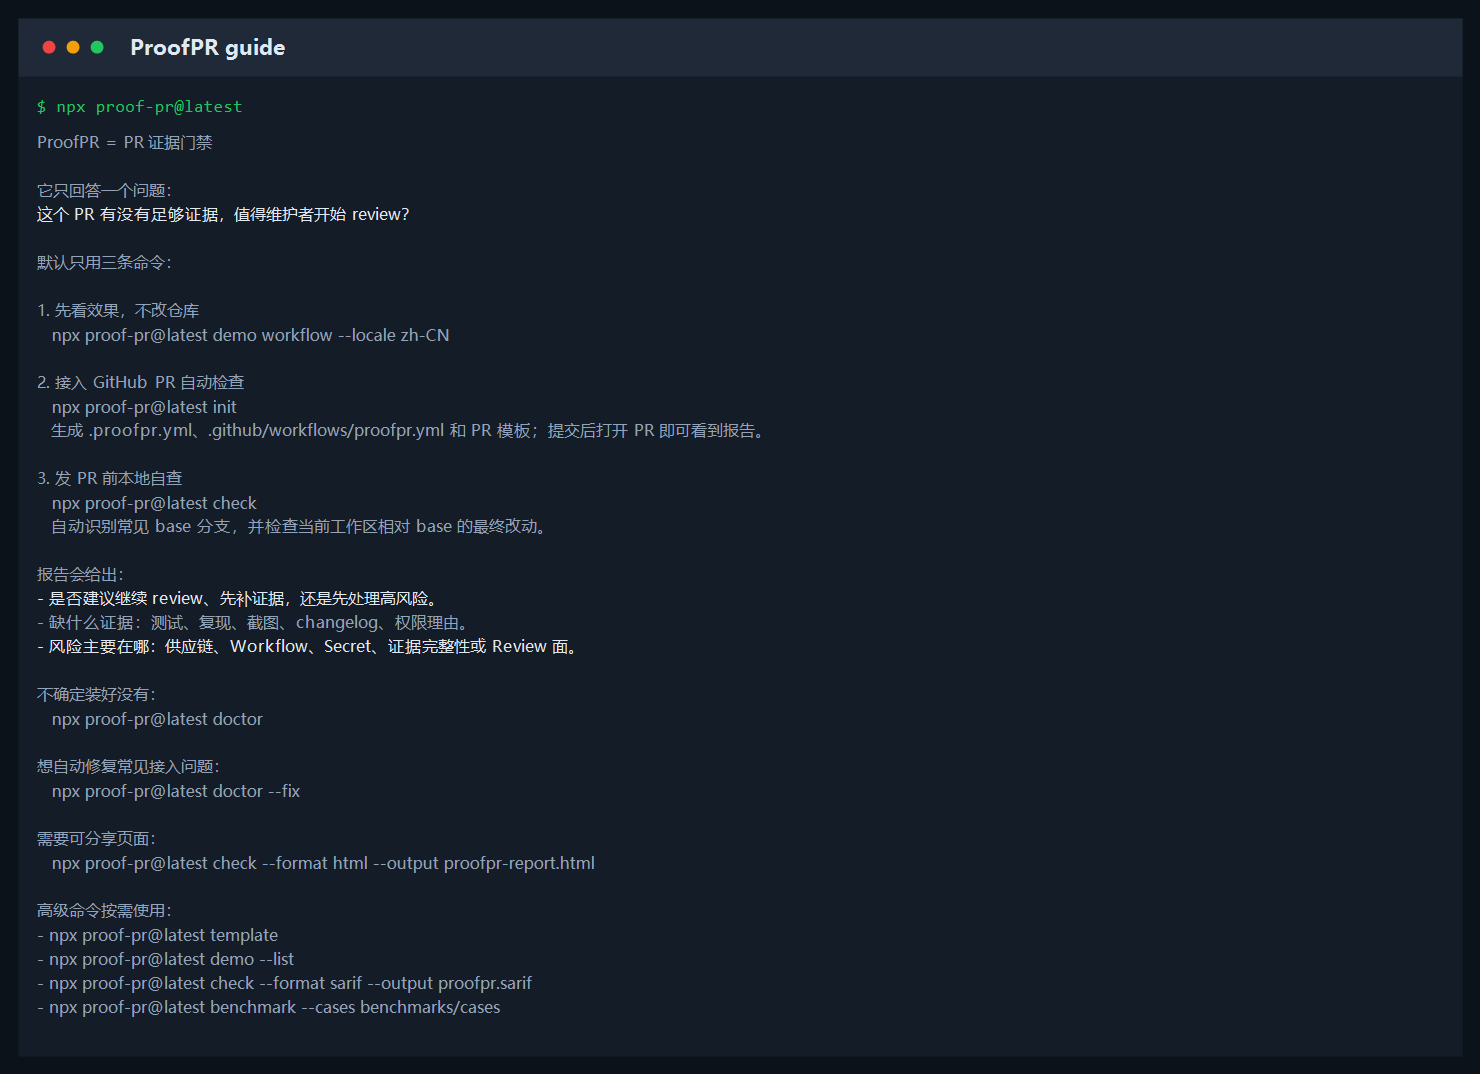
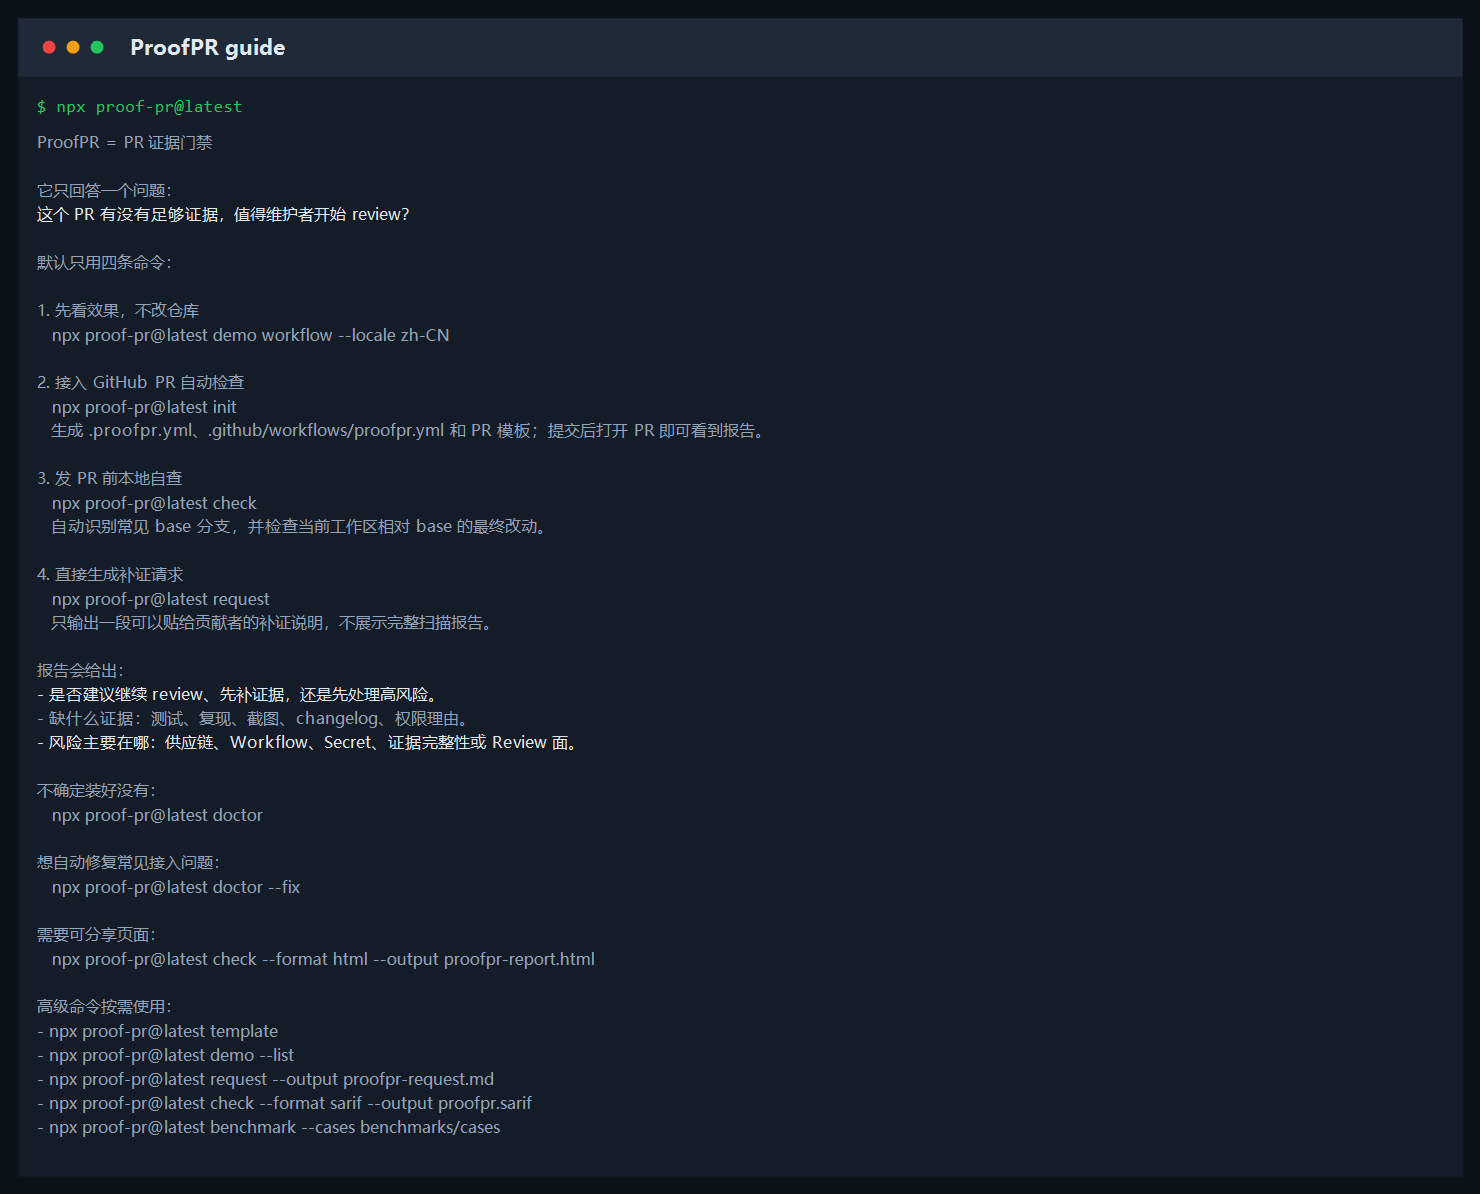
feat: add contributor evidence request

Changed region(s): [[0.0, 0.0307, 0.5284, 0.7989], [0.0311, 0.8296, 0.373, 0.9525]]

diff --git a/packages/cli/src/index.ts b/packages/cli/src/index.ts
@@ -9,6 +9,7 @@ import {
   loadConfig,
   parseLocale,
   parsePreset,
+  renderContributorRequest,
   renderHtmlReport,
   renderMarkdownReport,
   renderSarifReport,
@@ -22,7 +23,7 @@ import {
 } from "@proof-pr/core";
 
 const execFileAsync = promisify(execFile);
-const CLI_VERSION = "0.1.24";
+const CLI_VERSION = "0.1.25";
 
 type OutputFormat = "json" | "markdown" | "sarif" | "html";
 type FailLevel = RiskLevel | "never";
@@ -50,6 +51,14 @@ interface CheckCommandOptions {
   output?: string;
   locale?: ReportLocale;
   failOn: FailLevel;
+}
+
+interface RequestCommandOptions {
+  base?: string;
+  head: string;
+  config: string;
+  output?: string;
+  locale?: ReportLocale;
 }
 
 interface InitCommandOptions {
@@ -412,6 +421,30 @@ program
   });
 
 program
+  .command("request")
+  .description("Print a contributor-ready evidence request for the current branch.")
+  .option("--base <ref>", "Base git ref. Defaults to origin/main, origin/master, main, or master.")
+  .option("--head <ref>", "Head git ref used with --base.", "HEAD")
+  .option("--config <path>", "Path to .proofpr.yml.", ".proofpr.yml")
+  .option("--output <path>", "Write the request to a file instead of stdout.")
+  .option("--locale <locale>", "Report language: en or zh-CN.", "zh-CN")
+  .action(async (options: RequestCommandOptions) => {
+    const base = options.base ?? (await resolveDefaultBaseRef());
+    const diffText = await readCheckDiff(base, options.head);
+    const config = await loadConfig(options.config);
+    const result = scanDiff(diffText, { config });
+    const locale = parseLocale(options.locale, config.locale);
+    const output = renderContributorRequest(result, locale);
+
+    if (options.output) {
+      await writeOutput(options.output, `${output}\n`);
+      process.stdout.write(`ProofPR contributor request written to ${options.output}\n`);
+    } else {
+      process.stdout.write(`${output}\n`);
+    }
+  });
+
+program
   .command("scan", { isDefault: true })
   .description("Scan a git diff and print a ProofPR report.")
   .option("--base <ref>", "Base git ref. When provided, ProofPR scans base...head.")
@@ -551,7 +584,7 @@ function renderGuide(): string {
 它只回答一个问题：
 这个 PR 有没有足够证据，值得维护者开始 review？
 
-默认只用三条命令：
+默认只用四条命令：
 
 1. 先看效果，不改仓库
    npx proof-pr@latest demo workflow --locale zh-CN
@@ -563,6 +596,10 @@ function renderGuide(): string {
 3. 发 PR 前本地自查
    npx proof-pr@latest check
    自动识别常见 base 分支，并检查当前工作区相对 base 的最终改动。
+
+4. 直接生成补证请求
+   npx proof-pr@latest request
+   只输出一段可以贴给贡献者的补证说明，不展示完整扫描报告。
 
 报告会给出：
 - 是否建议继续 review、先补证据，还是先处理高风险。
@@ -581,6 +618,7 @@ function renderGuide(): string {
 高级命令按需使用：
 - npx proof-pr@latest template
 - npx proof-pr@latest demo --list
+- npx proof-pr@latest request --output proofpr-request.md
 - npx proof-pr@latest check --format sarif --output proofpr.sarif
 - npx proof-pr@latest benchmark --cases benchmarks/cases
 `;

diff --git a/packages/core/src/scan.test.ts b/packages/core/src/scan.test.ts
@@ -1,6 +1,6 @@
 import { describe, expect, it } from "vitest";
 import { parseConfig } from "./config.js";
-import { renderHtmlReport, renderMarkdownReport, renderSarifReport } from "./reporters.js";
+import { renderContributorRequest, renderHtmlReport, renderMarkdownReport, renderSarifReport } from "./reporters.js";
 import { scanDiff } from "./scan.js";
 
 describe("scanDiff", () => {
@@ -609,6 +609,23 @@ index 0000000..1111111 100644
     expect(report).toContain("依赖清单变更但缺少 lockfile");
     expect(report).toContain("| 供应链 |");
     expect(report).not.toContain("Dependency uses a non-registry source");
+  });
+
+  it("renders a contributor-ready evidence request", () => {
+    const result = scanDiff(`diff --git a/src/auth.ts b/src/auth.ts
+index 0000000..1111111 100644
+--- a/src/auth.ts
++++ b/src/auth.ts
+@@ -1 +1,2 @@
+ export function auth() {}
++export function logout() {}
+`);
+    const request = renderContributorRequest(result, "zh-CN");
+
+    expect(request).toContain("请在这个 PR 描述中补充以下内容");
+    expect(request).toContain("## 验证方式");
+    expect(request).toContain("## ProofPR 需要处理的点");
+    expect(request).toContain("补充测试或手动验证证据");
   });
 
   it("renders a standalone HTML visual report", () => {

diff --git a/packages/core/src/index.ts b/packages/core/src/index.ts
@@ -9,7 +9,13 @@ export {
 } from "./config.js";
 export { parseUnifiedDiff } from "./diff.js";
 export { analyzeEvidence } from "./evidence.js";
-export { renderHtmlReport, renderMarkdownReport, renderSarifReport, getReportMarker } from "./reporters.js";
+export {
+  renderContributorRequest,
+  renderHtmlReport,
+  renderMarkdownReport,
+  renderSarifReport,
+  getReportMarker
+} from "./reporters.js";
 export { scanDiff } from "./scan.js";
 export type {
   ChangeLine,

diff --git a/packages/core/src/reporters.ts b/packages/core/src/reporters.ts
@@ -707,6 +707,10 @@ export function renderHtmlReport(result: ScanResult, locale: ReportLocale = "en"
 `;
 }
 
+export function renderContributorRequest(result: ScanResult, locale: ReportLocale = "en"): string {
+  return renderContributorFixPrompt(result, locale);
+}
+
 export function getReportMarker(): string {
   return REPORT_MARKER;
 }

diff --git a/packages/github-action/action-dist/index.js b/packages/github-action/action-dist/index.js
@@ -51341,6 +51341,9 @@ function renderHtmlReport(result, locale = "en") {
 </html>
 `;
 }
+function renderContributorRequest(result, locale = "en") {
+    return renderContributorFixPrompt(result, locale);
+}
 function getReportMarker() {
     return REPORT_MARKER;
 }

diff --git a/docs/commands.md b/docs/commands.md
@@ -23,6 +23,7 @@ npx proof-pr@latest guide
 | 先看效果，不改仓库 | `npx proof-pr@latest demo workflow --locale zh-CN` | 当前终端 |
 | 接入 GitHub PR 自动检查 | `npx proof-pr@latest init` | PR 评论、Actions summary、Checks、HTML artifact |
 | 发 PR 前本地自查 | `npx proof-pr@latest check` | 当前终端 |
+| 生成贡献者补证请求 | `npx proof-pr@latest request` | 当前终端 |
 
 ## 辅助命令
 
@@ -31,6 +32,7 @@ npx proof-pr@latest guide
 | 不确定是否装好 | `npx proof-pr@latest doctor` | 当前终端 |
 | 自动修复常见接入问题 | `npx proof-pr@latest doctor --fix` | 当前终端和接入文件 |
 | 已接入仓库但缺少 PR 模板 | `npx proof-pr@latest template` | `.github/pull_request_template.md` |
+| 把补证请求写入文件 | `npx proof-pr@latest request --output proofpr-request.md` | `proofpr-request.md` |
 | 想把报告保存成页面 | `npx proof-pr@latest check --format html --output proofpr-report.html` | `proofpr-report.html` |
 | 想接入 GitHub Code Scanning | `npx proof-pr@latest check --format sarif --output proofpr.sarif` | `proofpr.sarif` / Code Scanning |
 | 查看所有内置案例 | `npx proof-pr@latest demo --list` | 当前终端 |
@@ -115,7 +117,7 @@ npx proof-pr@latest doctor
 - `.github/workflows/proofpr.yml` 是否存在。
 - `.github/pull_request_template.md` 是否存在，以及是否提示验证、复现、截图或权限理由。
 - workflow 是否监听 `pull_request`。
-- workflow 是否使用当前推荐的 `linsk27/proof-pr@v0.1.24`。
+- workflow 是否使用当前推荐的 `linsk27/proof-pr@v0.1.25`。
 - 是否具备 `pull-requests: write` 和 `contents: read` 权限。
 - 是否启用了 `html-output` 和 `actions/upload-artifact`，方便下载 HTML 可视化报告。
 - 当前目录是否在 Git 仓库里，以及自动识别出的 base...HEAD diff 是否可读。
@@ -159,7 +161,23 @@ npx proof-pr@latest check --format html --output proofpr-report.html
 - 一键复制“补证清单”，发给贡献者补 PR 描述。
 - 查看“风险雷达”，先判断风险主要来自证据、供应链、Workflow、Secret 还是 Review 面。
 
-## 6. 生成 SARIF
+## 6. 只生成贡献者补证请求
+
+执行：
+
+```bash
+npx proof-pr@latest request
+```
+
+这个命令和 `check` 使用同一套默认 diff 逻辑，但只输出一段可以直接贴给贡献者的补证说明。适合维护者不想转发完整报告，只想让贡献者补充测试、复现、截图、依赖或权限理由时使用。
+
+写入文件：
+
+```bash
+npx proof-pr@latest request --output proofpr-request.md
+```
+
+## 7. 生成 SARIF
 
 执行：
 
@@ -169,7 +187,7 @@ npx proof-pr@latest check --format sarif --output proofpr.sarif
 
 SARIF 主要给 GitHub Code Scanning 或其他安全平台读取。完整接入方式见 [SARIF / Code Scanning](sarif-code-scanning.md)。
 
-## 7. 跑内置风险案例
+## 8. 跑内置风险案例
 
 执行：
 
@@ -179,7 +197,7 @@ npx proof-pr@latest demo workflow --locale zh-CN
 
 这个命令不需要修改你的项目，也不需要 examples 文件，适合快速理解 ProofPR 会如何判断 workflow、供应链依赖、secret、测试证据这些风险。依赖案例会展示大版本升级、非注册表来源、未固定版本和 lockfile 提示。
 
-## 8. 跑 benchmark
+## 9. 跑 benchmark
 
 执行：
 
@@ -189,7 +207,7 @@ npx proof-pr@latest benchmark --cases benchmarks/cases
 
 benchmark 用来验证规则样本是否仍按预期命中。普通使用者不必每天跑它；维护 ProofPR 规则、准备发版或怀疑规则退化时再跑。
 
-## 9. 调整审查强度
+## 10. 调整审查强度
 
 打开 `.proofpr.yml`，修改 `preset`：
 

diff --git a/docs/release.md b/docs/release.md
@@ -1,6 +1,6 @@
 # 发布流程
 
-当前最新公开版本是 `0.1.24`。
+当前最新公开版本是 `0.1.25`。
 
 ## 发布前检查
 
@@ -52,8 +52,8 @@ npm 官方要求 trusted publishing 使用 npm 11.5.1+ 和 Node 22.14+；`npm tr
 确认 `pnpm release:check` 通过后：
 
 ```bash
-git tag v0.1.24
-git push origin v0.1.24
+git tag v0.1.25
+git push origin v0.1.25
 ```
 
 发布完成后需要检查：
@@ -66,9 +66,18 @@ npx proof-pr@latest --version
 当前验证结果：
 
 ```txt
-npm view proof-pr version -> 0.1.24
-npx proof-pr@latest --version -> 0.1.24
+npm view proof-pr version -> 0.1.25
+npx proof-pr@latest --version -> 0.1.25
 ```
+
+## `v0.1.25` 发布状态
+
+`v0.1.25` 是补证请求增强版，重点包括：
+
+- 新增 `proof-pr request`，只输出可以直接贴给贡献者的补证请求，不展示完整扫描报告。
+- 新增 `proof-pr request --output proofpr-request.md`，方便维护者把补证请求保存为文件或复制到 PR 评论。
+- Core 新增 `renderContributorRequest`，让后续 GitHub Action 或外部集成可以复用同一段补证请求逻辑。
+- README、npm 包 README、命令速查和快速开始同步说明 request 路径。
 
 ## `v0.1.24` 发布状态
 
@@ -169,7 +178,7 @@ npx proof-pr@latest --version -> 0.1.24
 
 ## 版本说明
 
-`0.1.8` 已经发布到 npm，但 CLI `--version` 仍显示旧版本。`0.1.24` 继承了后续修复，并且是当前推荐使用版本。
+`0.1.8` 已经发布到 npm，但 CLI `--version` 仍显示旧版本。`0.1.25` 继承了后续修复，并且是当前推荐使用版本。
 
 ## 发布后动作
 

diff --git a/docs/getting-started.md b/docs/getting-started.md
@@ -44,7 +44,7 @@ npx proof-pr@latest doctor
 
 ![ProofPR doctor 体检输出](screenshots/proofpr-doctor-output.png)
 
-如果你不确定下一步该做什么，可以直接看中文向导。它会把默认路径收敛成“先看效果、接入仓库、本地自查”三步：
+如果你不确定下一步该做什么，可以直接看中文向导。它会把默认路径收敛成“先看效果、接入仓库、本地自查、生成补证请求”四个动作：
 
 ```bash
 npx proof-pr@latest
@@ -74,7 +74,7 @@ jobs:
     runs-on: ubuntu-latest
     steps:
       - uses: actions/checkout@v4
-      - uses: linsk27/proof-pr@v0.1.24
+      - uses: linsk27/proof-pr@v0.1.25
         with:
           fail-on: high
           comment: "true"
@@ -140,11 +140,12 @@ npx proof-pr@latest guide
 npx proof-pr@latest demo workflow --locale zh-CN
 npx proof-pr@latest init
 npx proof-pr@latest check
+npx proof-pr@latest request
 ```
 
 `check` 会自动选择常见主分支作为 base，并纳入已提交分支 diff、staged、unstaged 和未跟踪新文件。
 
-如果第一行输出 `0.1.24`，说明你正在使用当前最新发布版。
+如果第一行输出 `0.1.25`，说明你正在使用当前最新发布版。
 
 也可以全局安装：
 
@@ -183,6 +184,13 @@ proof-pr doctor --fix
 
 ```bash
 proof-pr template
+```
+
+只生成可以发给贡献者的补证请求：
+
+```bash
+proof-pr request
+proof-pr request --output proofpr-request.md
 ```
 
 生成独立 HTML 可视化报告：

diff --git a/docs/roadmap.md b/docs/roadmap.md
@@ -31,7 +31,7 @@ ProofPR 的长期定位不是“又一个代码扫描器”，而是 **AI 时代
    代码侧材料已准备好，下一步需要仓库所有者在 GitHub 网页上确认发布。
 
 2. 发布链路稳定性
-   Trusted Publisher 已配置并通过 `v0.1.21` 到 `v0.1.24` 验证。后续重点是保持 release workflow 简单可审计，避免回退到本地 token 发布。
+   Trusted Publisher 已配置并通过 `v0.1.21` 到 `v0.1.25` 验证。后续重点是保持 release workflow 简单可审计，避免回退到本地 token 发布。
 
 3. 真实截图刷新
    用供应链增强规则重新跑一个 demo PR，补充新版依赖风险、HTML 报告和 benchmark 效果图。
@@ -62,4 +62,4 @@ ProofPR 的长期定位不是“又一个代码扫描器”，而是 **AI 时代
 
 ## 下一版优先级
 
-下一步优先用 `0.1.24` 的自动自检修复和简化接入流程更新真实 demo PR 截图和 Marketplace 页面，并继续准备 GitHub Marketplace 上架材料。
+下一步优先用 `0.1.25` 的补证请求和自动自检修复更新真实 demo PR 截图和 Marketplace 页面，并继续准备 GitHub Marketplace 上架材料。
